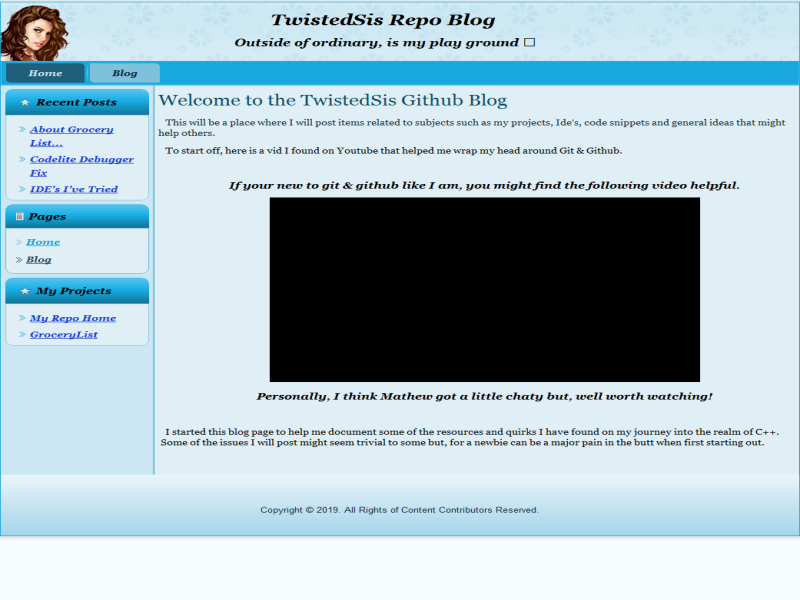
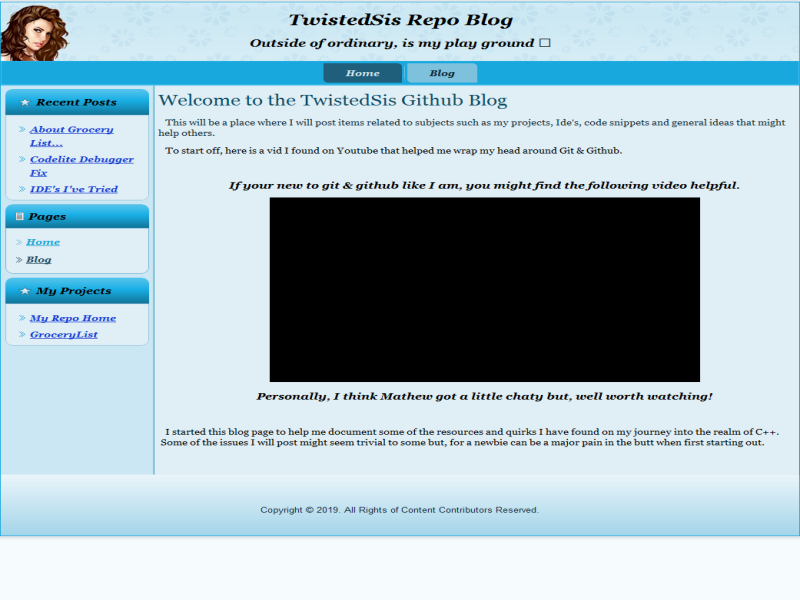
changes

Changed region(s): [[0.2812, 0.0, 0.6875, 0.15], [0.0, 0.09, 0.2188, 0.15]]

diff --git a/script.js b/script.js
@@ -1217,11 +1217,11 @@ resizeData['object11755144'] = {
 
 resizeData['headline'] = {
    responsive: [
-                  { left: 0.47, top: 0.22, visible: true }, 
-                  { left: 0.47, top: 0.22, visible: true }, 
-                  { left: 0.47, top: 0.22, visible: true }, 
-                  { left: 0.47, top: 0.22, visible: true }, 
-                  { left: 0.47, top: 0.22, visible: true }, 
+                  { left: 0.5, top: 0.22, visible: true }, 
+                  { left: 0.5, top: 0.22, visible: true }, 
+                  { left: 0.5, top: 0.22, visible: true }, 
+                  { left: 0.5, top: 0.22, visible: true }, 
+                  { left: 0.5, top: 0.22, visible: true }, 
                ],
    area: {
        x: 0,
@@ -1233,11 +1233,11 @@ resizeData['headline'] = {
 
 resizeData['slogan'] = {
    responsive: [
-                  { left: 0.47, top: 0.73, visible: true }, 
-                  { left: 0.47, top: 0.73, visible: true }, 
-                  { left: 0.47, top: 0.73, visible: true }, 
-                  { left: 0.47, top: 0.73, visible: true }, 
-                  { left: 0.47, top: 0.73, visible: true }, 
+                  { left: 0.5, top: 0.74, visible: true }, 
+                  { left: 0.5, top: 0.74, visible: true }, 
+                  { left: 0.5, top: 0.74, visible: true }, 
+                  { left: 0.5, top: 0.74, visible: true }, 
+                  { left: 0.5, top: 0.74, visible: true }, 
                ],
    area: {
        x: 0,

diff --git a/style.css b/style.css
@@ -409,8 +409,8 @@ li p, .art-postcontent li p, .art-blockcontent li p
   position: absolute;
   min-width: 50px;
   top: 15px;
-  left: 46.61%;
-  margin-left: -136px !important;
+  left: 49.85%;
+  margin-left: -146px !important;
   line-height: 100%;
   -webkit-transform: rotate(0deg);
   -moz-transform: rotate(0deg);
@@ -443,10 +443,10 @@ text-shadow: 0px 0px 0px rgb(0, 0, 0);
   display: inline-block;
   position: absolute;
   min-width: 50px;
-  top: 60px;
-  left: 46.82%;
+  top: 61px;
+  left: 49.52%;
   line-height: 100%;
-  margin-left: -184px !important;
+  margin-left: -194px !important;
   -webkit-transform: rotate(0deg);
   -moz-transform: rotate(0deg);
   -o-transform: rotate(0deg);
@@ -550,7 +550,7 @@ text-align: left;
    margin:0 auto;
    position: relative;
    z-index: 499;
-   text-align: left;
+   text-align: center;
 }
 
 ul.art-hmenu a, ul.art-hmenu a:link, ul.art-hmenu a:visited, ul.art-hmenu a:hover 

diff --git a/style.responsive.css b/style.responsive.css
@@ -297,7 +297,7 @@
    margin-top: 0;
    margin-bottom: 0;
    min-width: 0;
-   text-align: left !important;
+   text-align: center !important;
 }
 
 .responsive nav.art-nav
